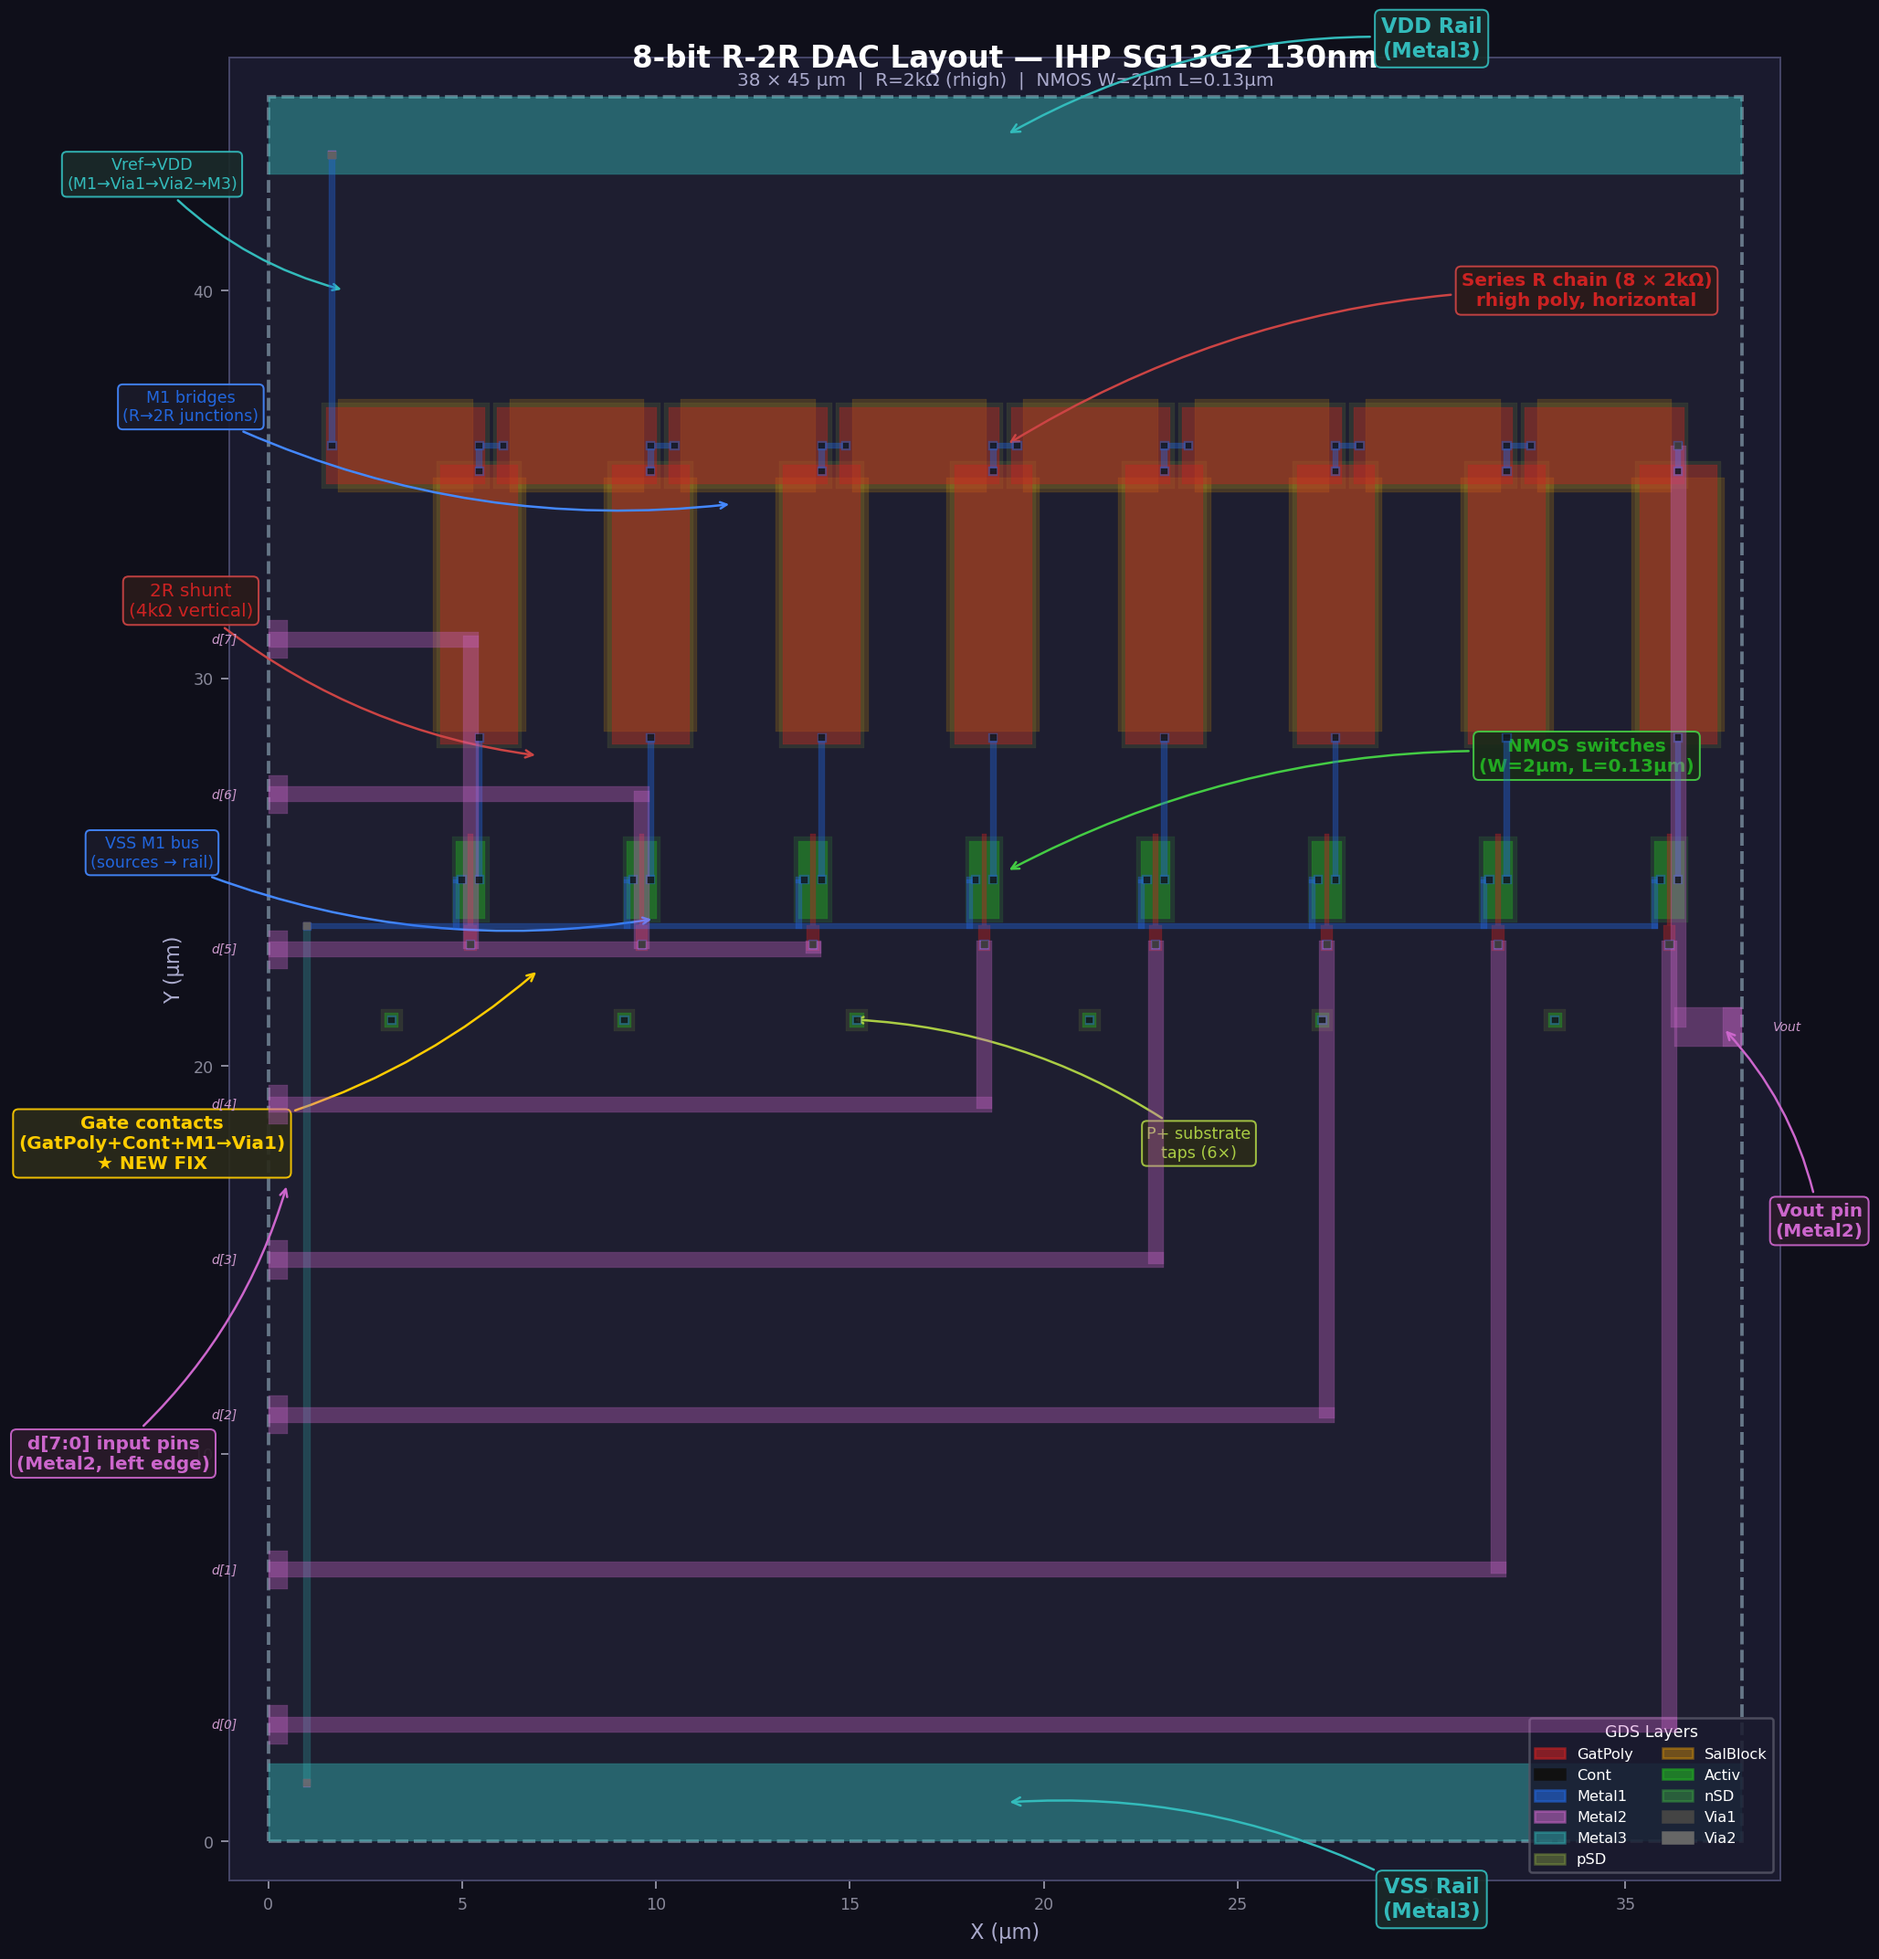
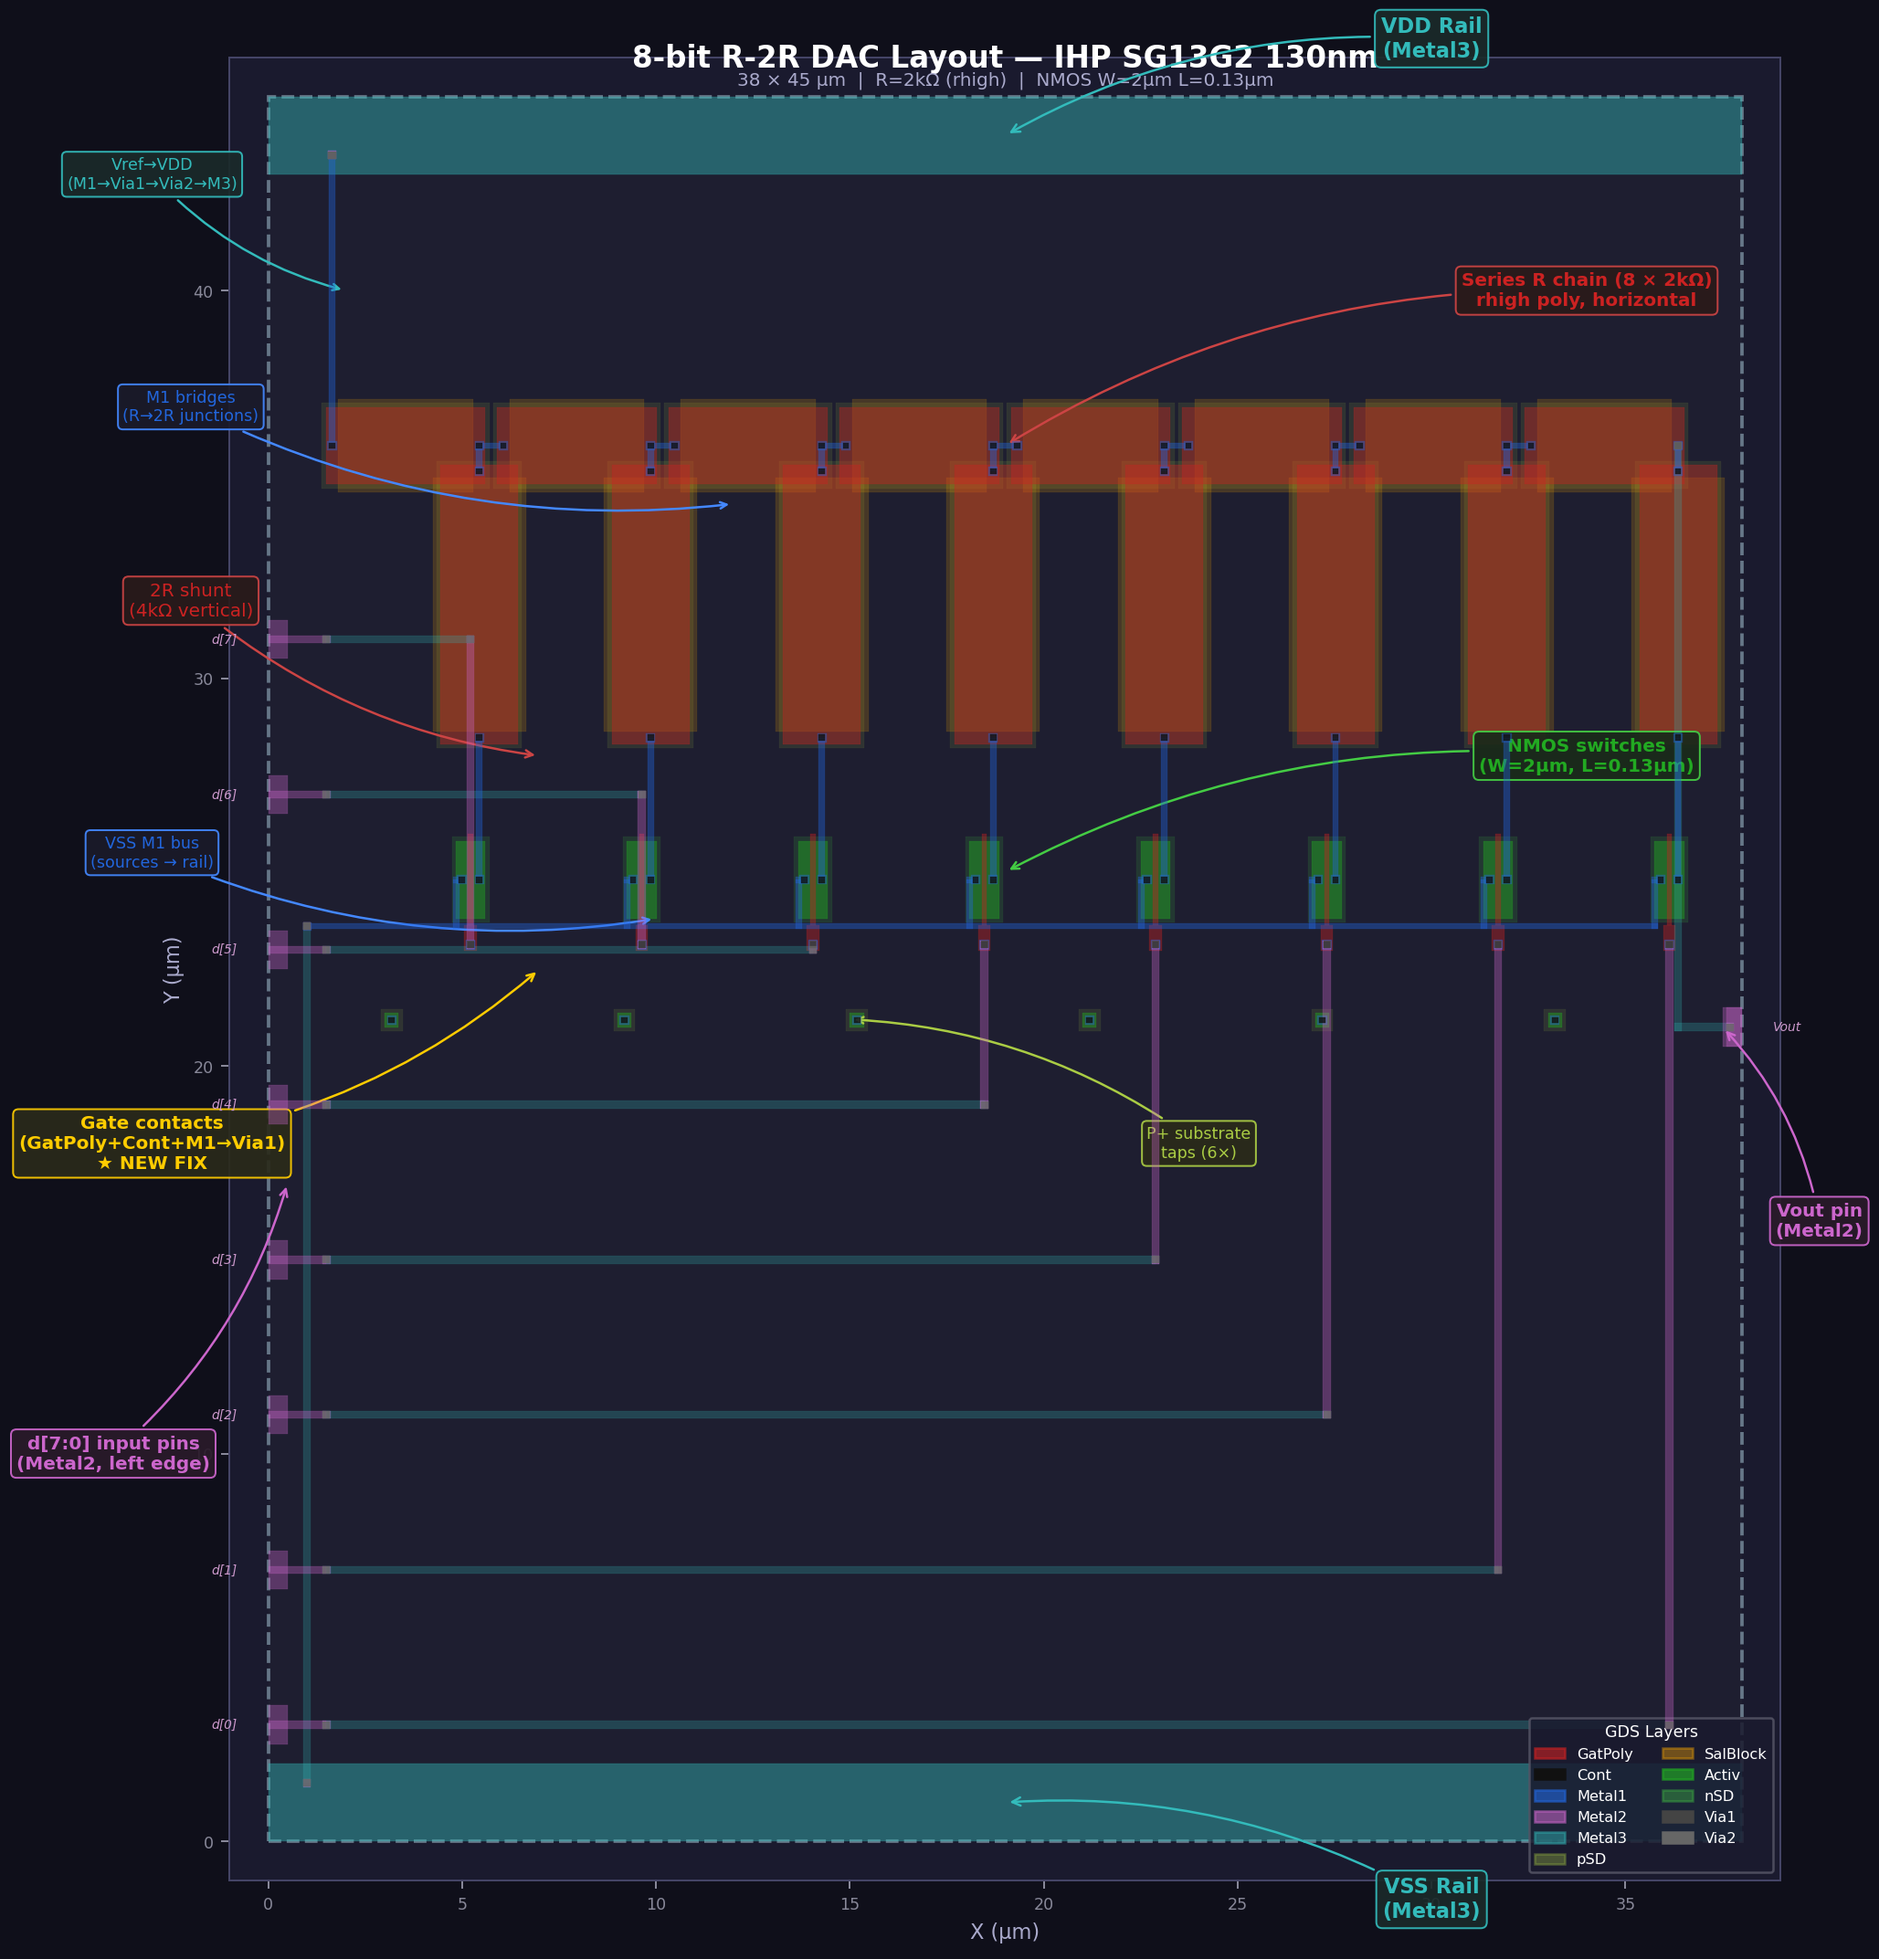
Fix R2R DAC M2 routing shorts: route d[0]-d[7] horizontals on M3
The M2 horizontal traces for d[0]-d[7] crossed each other's vertical
jogs, creating shorts on Metal2. Additionally, d[0]'s vertical jog
was only 0.1µm from Vout's M2 route, violating M2_SPACE.

Fix: use M3 for horizontal runs from left-edge pins to gate positions,
with Via2 transitions at each end. M2 is now only used for short
vertical jogs at each gate_x and for pin stubs. Vout also rerouted
through M3 to maintain spacing from d[0]. DRC clean (0 violations).

diff --git a/layout/gen_r2r_dac.py b/layout/gen_r2r_dac.py
@@ -307,13 +307,25 @@ def build_r2r_dac():
         # Via1 at gate contact (M1 pads merge)
         draw_via1(top, layout, gate_x, gc_y)
 
-        # Metal2 route: left edge pin → gate via
+        # Metal2/3 route: left edge pin → gate via (M3 horizontal, M2 vertical)
         pin_y = 3.0 + bit * 4.0
-        top.shapes(li_m2).insert(rect(0.0, pin_y - M2_WIDTH,
-                                        gate_x + 0.2, pin_y + M2_WIDTH))
-        # Vertical jog on M2
-        top.shapes(li_m2).insert(rect(gate_x - M2_WIDTH, min(pin_y, gc_y) - 0.1,
-                                        gate_x + M2_WIDTH, max(pin_y, gc_y) + 0.1))
+        hw = M2_WIDTH / 2  # half-width for centering
+
+        # 1) M2 pin extension from x=0 to x=1.5 at pin_y
+        top.shapes(li_m2).insert(rect(0.0, pin_y - hw, 1.5, pin_y + hw))
+
+        # 2) Via2 at (1.5, pin_y) — M2 up to M3
+        draw_via2(top, layout, 1.5, pin_y)
+
+        # 3) M3 horizontal from x=1.5 to gate_x at pin_y
+        top.shapes(li_m3).insert(rect(1.5, pin_y - hw, gate_x, pin_y + hw))
+
+        # 4) Via2 at (gate_x, pin_y) — M3 back to M2
+        draw_via2(top, layout, gate_x, pin_y)
+
+        # 5) M2 vertical jog from pin_y to gc_y at gate_x
+        top.shapes(li_m2).insert(rect(gate_x - hw, min(pin_y, gc_y) - 0.1,
+                                        gate_x + hw, max(pin_y, gc_y) + 0.1))
 
         x_cursor += r_total + gap
 
@@ -322,17 +334,35 @@ def build_r2r_dac():
     for xt in [3.0, 9.0, 15.0, 21.0, 27.0, 33.0]:
         draw_ptap(top, layout, xt, 21.0)
 
-    # --- Vout pin (right edge, Metal2) ---
+    # --- Vout pin (right edge, Metal2 → Metal3 route to avoid d[0] short) ---
     vout_via_x = vout_contact[0]
     vout_via_y = vout_contact[1]
-    draw_via1(top, layout, vout_via_x, vout_via_y)
     vout_pin_y = 21.0
-    top.shapes(li_m2).insert(rect(vout_via_x - 0.1, vout_pin_y - 0.5,
+    hw = M2_WIDTH / 2
+
+    # Via1 at vout_contact (M1→M2, existing)
+    draw_via1(top, layout, vout_via_x, vout_via_y)
+
+    # Via2 at vout_contact (M2→M3)
+    draw_via2(top, layout, vout_via_x, vout_via_y)
+
+    # M3 vertical from vout_via_y down to vout_pin_y at vout_via_x
+    # Extend below vout_pin_y by hw to fully overlap with horizontal at junction
+    top.shapes(li_m3).insert(rect(vout_via_x - hw, vout_pin_y - hw,
+                                    vout_via_x + hw, vout_via_y))
+
+    # M3 horizontal from vout_via_x to near-right-edge at vout_pin_y
+    # Start at vout_via_x - hw to fully overlap with vertical at junction
+    vout_via2_x = MACRO_W - 0.3
+    top.shapes(li_m3).insert(rect(vout_via_x - hw, vout_pin_y - hw,
+                                    vout_via2_x, vout_pin_y + hw))
+
+    # Via2 near right edge to drop back to M2
+    draw_via2(top, layout, vout_via2_x, vout_pin_y)
+
+    # M2 short run from via2 to MACRO_W at vout_pin_y (pin stays M2)
+    top.shapes(li_m2).insert(rect(vout_via2_x - hw, vout_pin_y - 0.5,
                                     MACRO_W, vout_pin_y + 0.5))
-    top.shapes(li_m2).insert(rect(vout_via_x - M2_WIDTH,
-                                    min(vout_via_y, vout_pin_y),
-                                    vout_via_x + M2_WIDTH,
-                                    max(vout_via_y, vout_pin_y)))
 
     # --- VDD rail (top, Metal3) ---
     top.shapes(li_m3).insert(rect(0.0, MACRO_H - 2.0, MACRO_W, MACRO_H))
